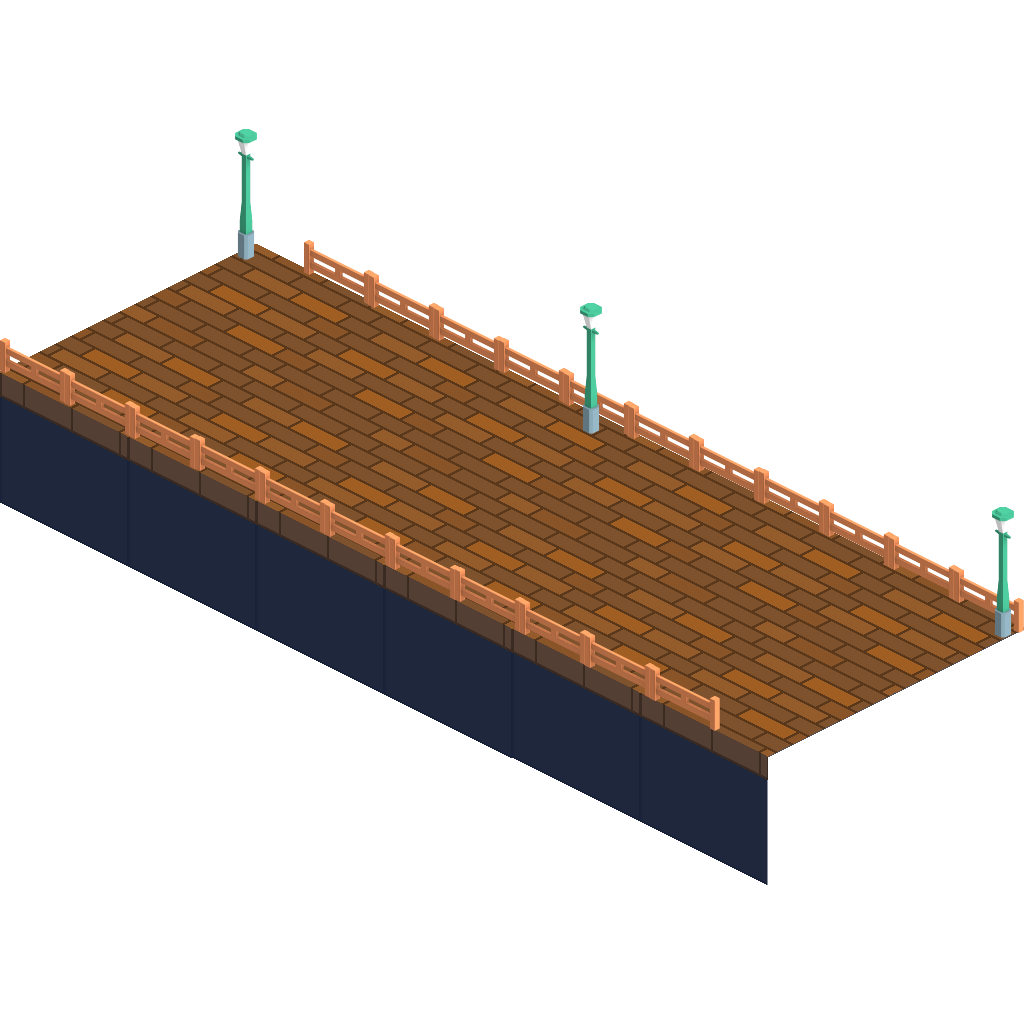
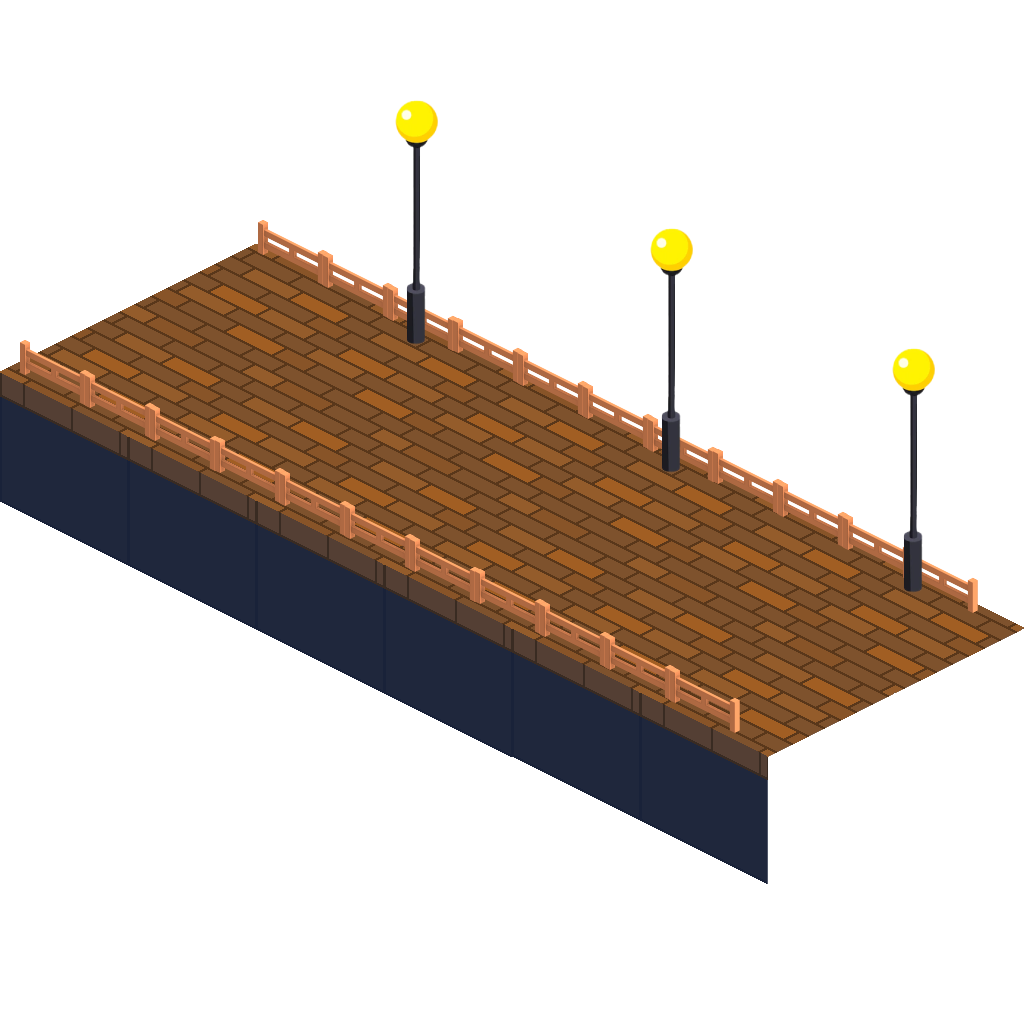
lamps graphics fixed

Changed region(s): [[0.2188, 0.0938, 1.0, 0.625], [0.0, 0.3125, 0.75, 0.7188]]

diff --git a/src/GameScene.ts b/src/GameScene.ts
@@ -184,7 +184,7 @@ export class GameScene extends Container implements IScene {
 
 		this.spawnTreesBottom();
 		//this.spawnLightBillboardsBottom();
-		
+
 		this.spawnPlayerRockets();
 		this.spawnPlayerRocketBullsEyes();
 		this.spawnPlayerBalloon();
@@ -628,18 +628,15 @@ export class GameScene extends Container implements IScene {
 
 	//#region Lamps
 
-	private lampXyAdjustment: number = 100;
-	private lampXyDistance = 250;
+	private lampXyAdjustment: number = 197;
 
 	private lampSizeWidth: number = 750;
 	private lampSizeHeight: number = 750;
 
-	//private lampBottomGameObjects: Array<GameObjectContainer> = [];
 	private lampTopGameObjects: Array<GameObjectContainer> = [];
 
-	private lampPopDelayDefault: number = 150 / Constants.DEFAULT_CONSTRUCT_DELTA;
+	private lampPopDelayDefault: number = 93 / Constants.DEFAULT_CONSTRUCT_DELTA;
 	private lampPopDelayTop: number = 7;
-	//private lampPopDelayBottom: number = 0;
 
 	private spawnLampsTop() {
 
@@ -652,8 +649,8 @@ export class GameScene extends Container implements IScene {
 
 				const sprite: GameObjectSprite = new GameObjectSprite(Constants.getRandomTexture(ConstructType.ROAD_SIDE_LAMP));
 
-				sprite.x = (this.lampSizeWidth * i - (this.lampXyAdjustment * i)) + (this.lampXyDistance * i);
-				sprite.y = ((this.lampSizeWidth / 2) * i - ((this.lampXyAdjustment / 2) * i)) + (this.lampXyDistance / 2 * i);
+				sprite.x = (this.lampSizeWidth * i - (this.lampXyAdjustment * i));
+				sprite.y = ((this.lampSizeWidth / 2) * i - ((this.lampXyAdjustment / 2) * i));
 				sprite.width = this.lampSizeWidth;
 				sprite.height = this.lampSizeHeight;
 
@@ -665,30 +662,6 @@ export class GameScene extends Container implements IScene {
 		}
 	}
 
-	//private spawnLampsBottom() {
-
-	//	for (let j = 0; j < 5; j++) {
-
-	//		const gameObject: GameObjectContainer = new GameObjectContainer(Constants.DEFAULT_CONSTRUCT_SPEED);
-	//		gameObject.disableRendering();
-
-	//		for (let i = 0; i < 5; i++) {
-
-	//			const sprite: GameObjectSprite = new GameObjectSprite(Constants.getRandomTexture(ConstructType.ROAD_SIDE_LAMP));
-
-	//			sprite.x = (this.lampSizeWidth * i - (this.lampXyAdjustment * i)) + (this.lampXyDistance * i);
-	//			sprite.y = ((this.lampSizeWidth / 2) * i - ((this.lampXyAdjustment / 2) * i)) + (this.lampXyDistance / 2 * i);
-	//			sprite.width = this.lampSizeWidth;
-	//			sprite.height = this.lampSizeHeight;
-
-	//			gameObject.addChild(sprite);
-	//		}
-
-	//		this.lampBottomGameObjects.push(gameObject);
-	//		this.sceneContainer.addChild(gameObject);
-	//	}
-	//}
-
 	private generateLampsTop() {
 
 		this.lampPopDelayTop -= 0.1;
@@ -698,29 +671,12 @@ export class GameScene extends Container implements IScene {
 			var gameObject = this.lampTopGameObjects.find(x => x.isAnimating == false);
 
 			if (gameObject) {
-				gameObject.setPosition((gameObject.width * -1), (gameObject.height * -1) - 235);
+				gameObject.setPosition((gameObject.width * -1), (gameObject.height * -1) - 275);
 				gameObject.enableRendering();
 				this.lampPopDelayTop = this.lampPopDelayDefault;
 			}
 		}
 	}
-
-	//private generateLampsBottom() {
-
-	//	this.lampPopDelayBottom -= 0.1;
-
-	//	if (this.lampPopDelayBottom < 0) {
-
-	//		var gameObject = this.lampBottomGameObjects.find(x => x.isAnimating == false);
-
-	//		if (gameObject) {
-	//			gameObject.x = gameObject.width * -1;
-	//			gameObject.y = -330;
-	//			gameObject.enableRendering();
-	//			this.lampPopDelayBottom = this.lampPopDelayDefault;
-	//		}
-	//	}
-	//}
 
 	private animateLampsTop() {
 
@@ -738,23 +694,6 @@ export class GameScene extends Container implements IScene {
 			});
 		}
 	}
-
-	//private animateLampsBottom() {
-
-	//	var animatingLamps = this.lampBottomGameObjects.filter(x => x.isAnimating == true);
-
-	//	if (animatingLamps) {
-
-	//		animatingLamps.forEach(gameObject => {
-	//			gameObject.moveDownRight();
-
-	//			if (gameObject.x - this.lampSizeWidth > Constants.DEFAULT_GAME_VIEW_WIDTH || gameObject.y > Constants.DEFAULT_GAME_VIEW_HEIGHT) {
-	//				gameObject.disableRendering();
-
-	//			}
-	//		});
-	//	}
-	//}
 
 	//#endregion
 
